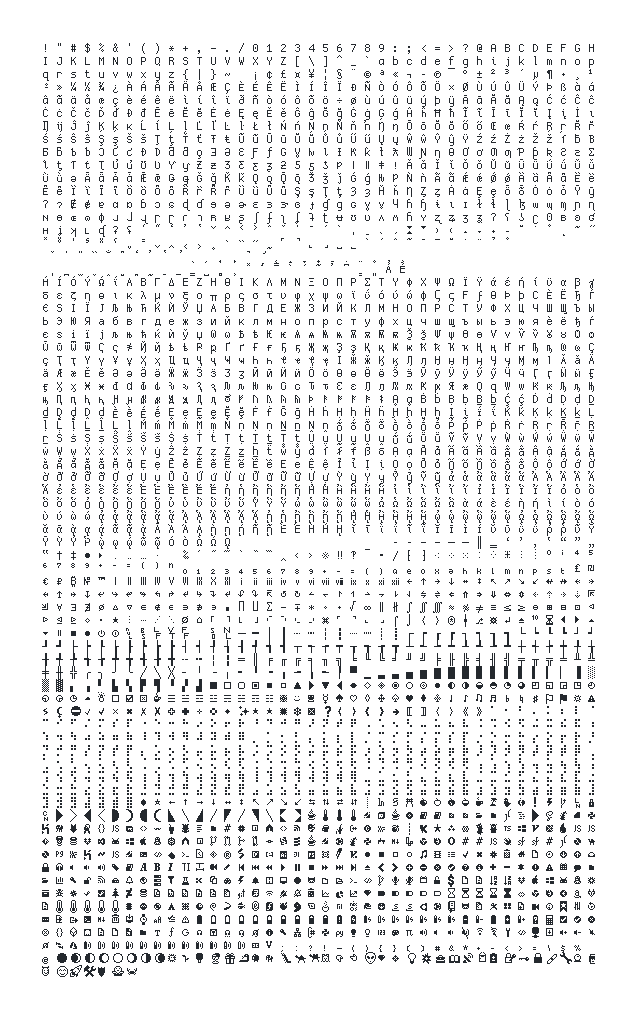
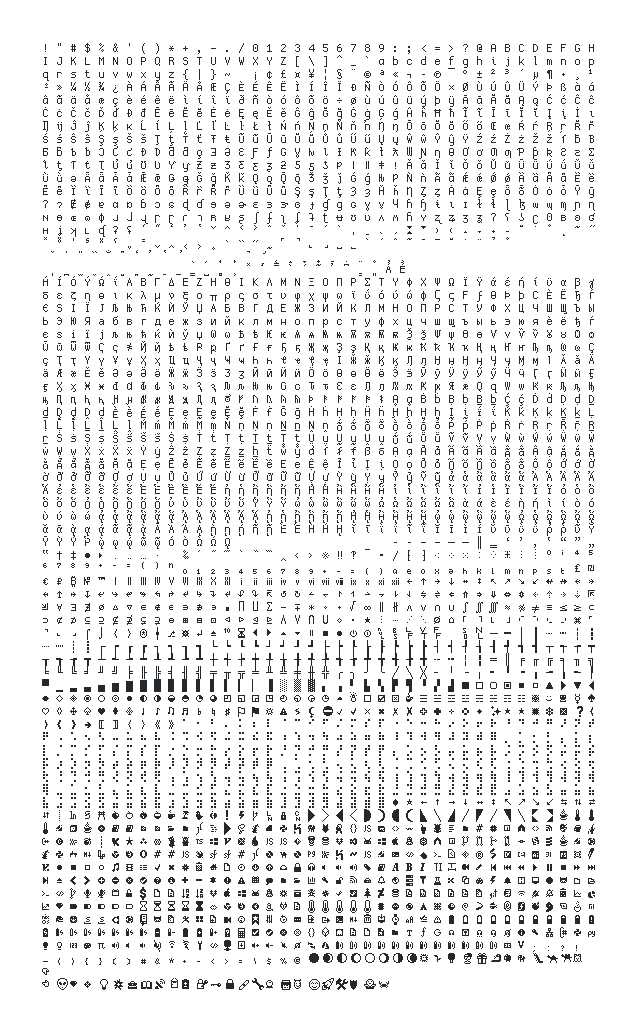
v.1.18.0 Add some logical and set operators
Closes #80

Changed region(s): [[0.0597, 0.5886, 0.9545, 0.9603], [0.8352, 0.5886, 0.8948, 0.6196], [0.0895, 0.5886, 0.1193, 0.6196]]

diff --git a/CHANGELOG.md b/CHANGELOG.md
@@ -5,6 +5,29 @@ All notable changes to this project will be documented in this file.
 The format is based on [Keep a Changelog], and this project adheres to
 [Semantic Versioning].
 
+## [1.18.0]
+
+### Added
+
+- ∧ (U+2227 LOGICAL AND)
+- ∨ (U+2228 LOGICAL OR)
+- ∩ (U+2229 INTERSECTION)
+- ∪ (U+222A UNION)
+- ⊂ (U+2282 SUBSET OF)
+- ⊃ (U+2283 SUPERSET OF)
+- ⊄ (U+2284 NOT A SUBSET OF)
+- ⊅ (U+2285 NOT A SUPERSET OF)
+- ⊆ (U+2286 SUBSET OF OR EQUAL TO)
+- ⊇ (U+2287 SUPERSET OF OR EQUAL TO)
+- ⊈ (U+2288 NEITHER A SUBSET OF NOR EQUAL TO)
+- ⊉ (U+2289 NEITHER A SUPERSET OF NOR EQUAL TO)
+- ⊊ (U+228A SUBSET OF WITH NOT EQUAL TO)
+- ⊋ (U+228B SUPERSET OF WITH NOT EQUAL TO)
+- ⋀ (U+22C0 N-ARY LOGICAL AND)
+- ⋁ (U+22C1 N-ARY LOGICAL OR)
+- ⋂ (U+22C2 N-ARY INTERSECTION)
+- ⋃ (U+22C3 N-ARY UNION)
+
 ## [1.17.2]
 
 ### Changed
@@ -1926,7 +1949,8 @@ Still broken on Windows.
 
 [Keep a Changelog]: https://keepachangelog.com/en/1.0.0/
 [Semantic Versioning]: https://semver.org/spec/v2.0.0.html
-[unreleased]: https://github.com/slavfox/Cozette/compare/v.1.17.2...HEAD
+[unreleased]: https://github.com/slavfox/Cozette/compare/v.1.18.0...HEAD
+[1.18.0]: https://github.com/slavfox/Cozette/compare/v.1.17.2...v.1.18.0
 [1.17.2]: https://github.com/slavfox/Cozette/compare/v.1.17.1...v.1.17.2
 [1.17.1]: https://github.com/slavfox/Cozette/compare/v.1.17.0...v.1.17.1
 [1.17.0]: https://github.com/slavfox/Cozette/compare/v.1.16.0...v.1.17.0
